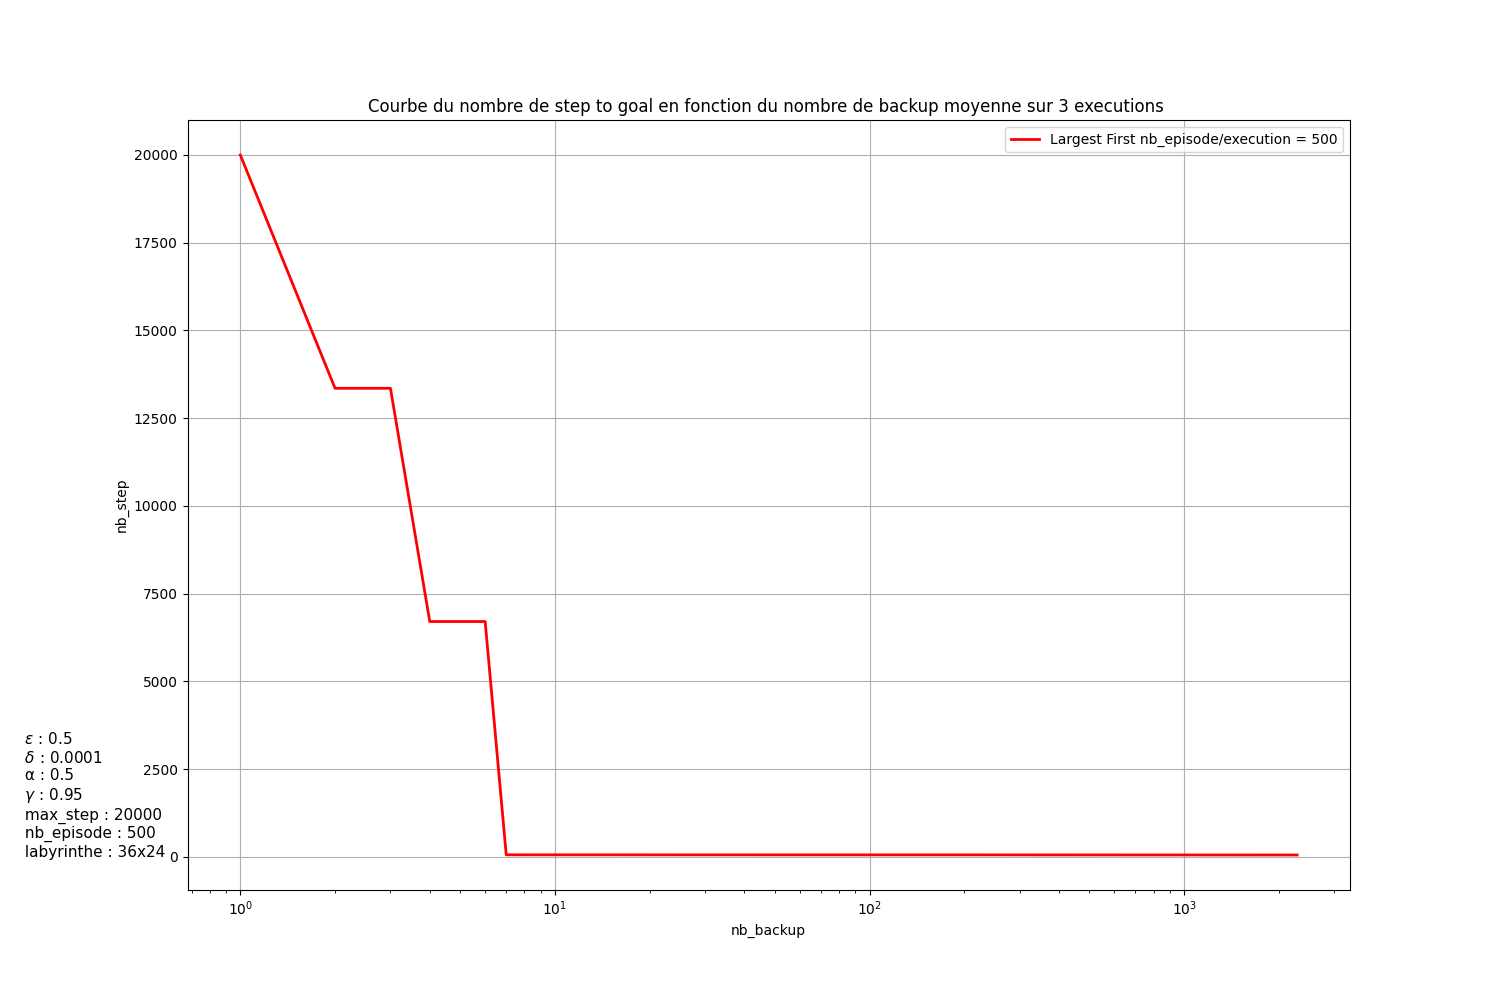
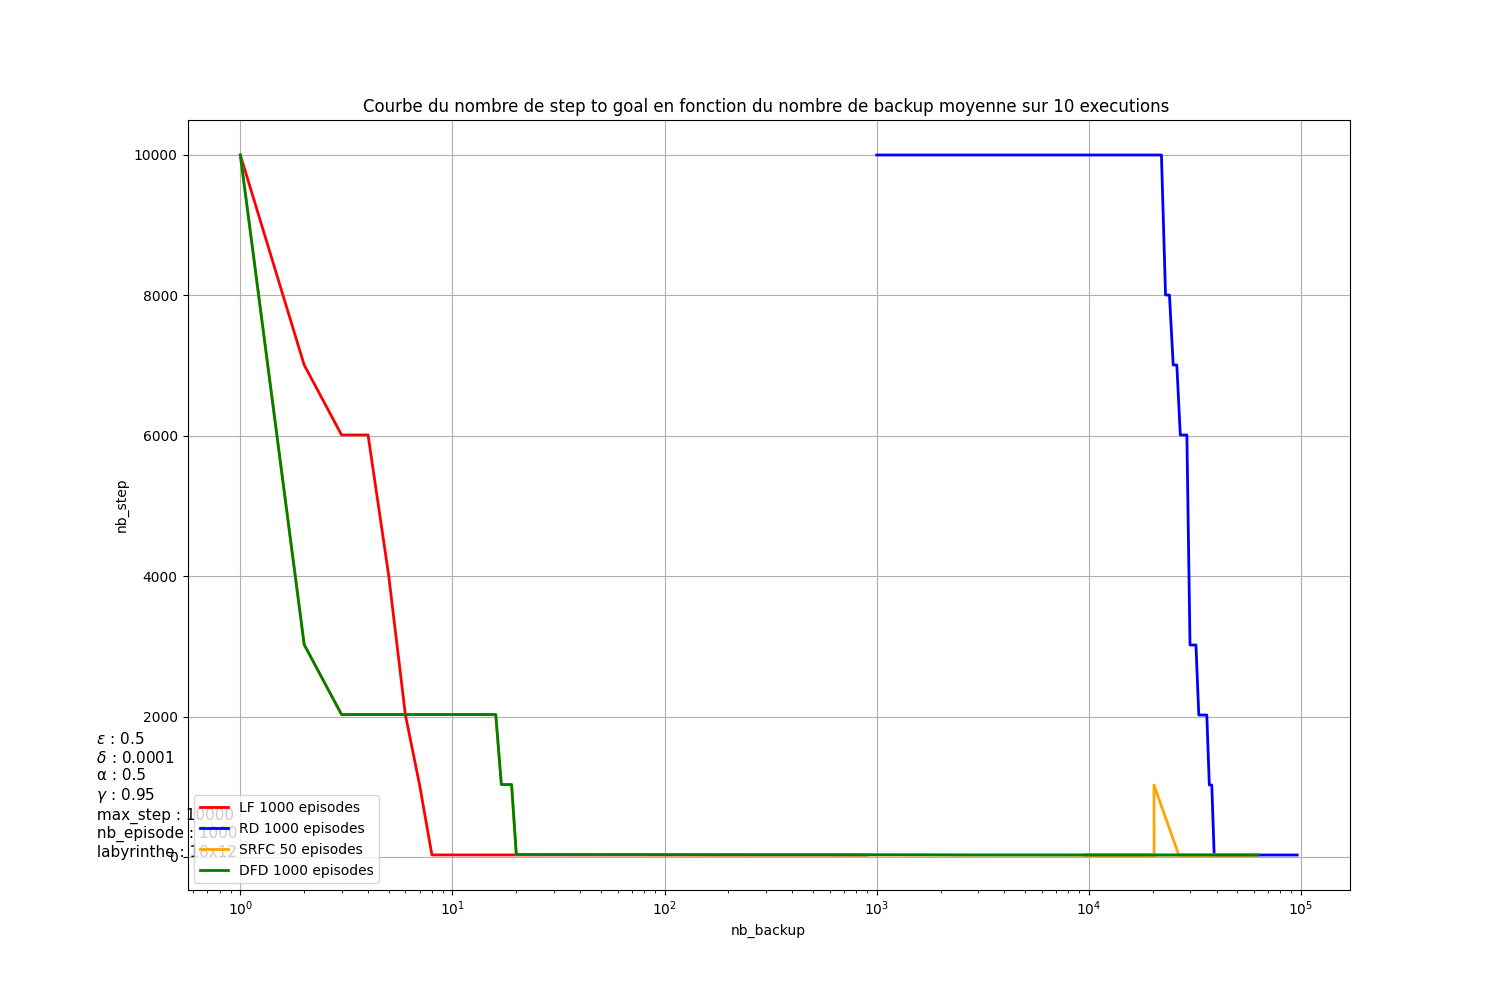
minor update

diff --git a/prma/fig-8.py b/prma/fig-8.py
@@ -22,8 +22,8 @@ if not os.path.exists('res'):
     os.makedirs('res')
 output_path = 'res/figure-8-final.png'
 
-env = setup_env_36x24()
-laby = "36x24"
+env = setup_env_18x12()
+laby = "18x12"
 
 #largest first
 all_steps_lg = []
@@ -39,6 +39,11 @@ all_steps_srfd = []
 all_backups_srfd = []
 
 nb_exec = config.main.nb_execution
+
+SR = SuccessorRepresentationFD(env, config.main.alpha,config.main.delta, 
+                                    config.main.epsilon, config.sr.nb_episode,
+                                    config.main.max_step, config.sr.env9x6.train_episode_length, 
+                                    config.sr.env18x12.test_episode_length)
 
 
 for i in range(nb_exec):
@@ -76,18 +81,13 @@ for i in range(nb_exec):
     all_steps_dfd.append(nb_steps)
     all_backups_dfd.append(nb_backup)
 
-    # SR = SuccessorRepresentationFD(env, config.main.alpha,config.main.delta, 
-    #                                 config.main.epsilon, config.sr.nb_episode,
-    #                                 config.main.max_step, config.sr.env36x24.train_episode_length, 
-    #                                 config.sr.env36x24.test_episode_length)
-
-    # SR.execute()
-    # data = pd.read_csv("executionInformation.csv")
-    # print(i)
-    # nb_steps = data.iloc[:, 1].tolist()
-    # nb_backup = data.iloc[:,0].tolist()
-    # all_steps_srfd.append(nb_steps)
-    # all_backups_srfd.append(nb_backup) 
+    SR.execute()
+    data = pd.read_csv("executionInformation.csv")
+    print(i)
+    nb_steps = data.iloc[:, 1].tolist()
+    nb_backup = data.iloc[:,0].tolist()
+    all_steps_srfd.append(nb_steps)
+    all_backups_srfd.append(nb_backup) 
 
 plt.figure(figsize=(15,10))
 

diff --git a/prma/assets/SuccessorRepresentationFD.py b/prma/assets/SuccessorRepresentationFD.py
@@ -189,7 +189,7 @@ class SuccessorRepresentationFD(FocusedDyna) :
     """
     true_terminal_states = self.mdp.unwrapped.terminal_states
     for state_goal in range(1, self.mdp.unwrapped.nb_states) : 
-      # print("goal",state_goal)
+      print("goal",state_goal)
       state, _ = self.mdp.reset()
       #self.lifetime_td_errors = []
       self.test_lengths = []
